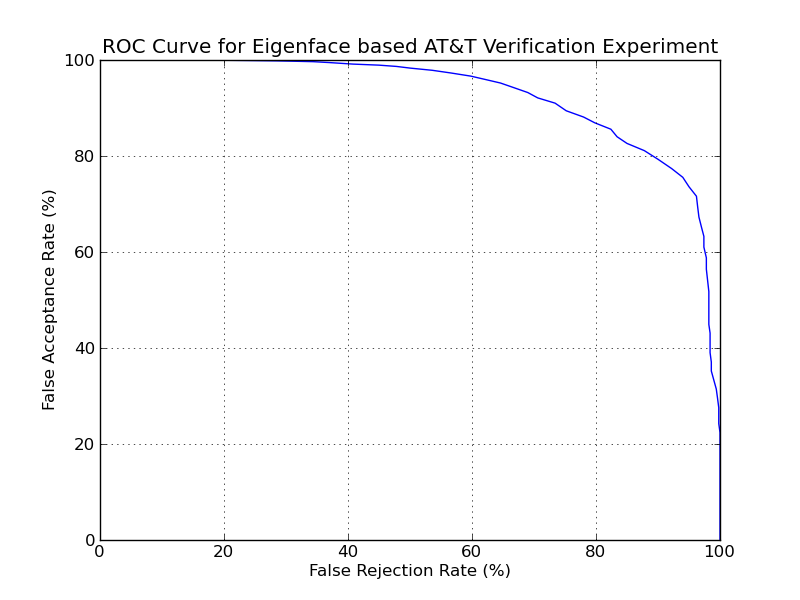
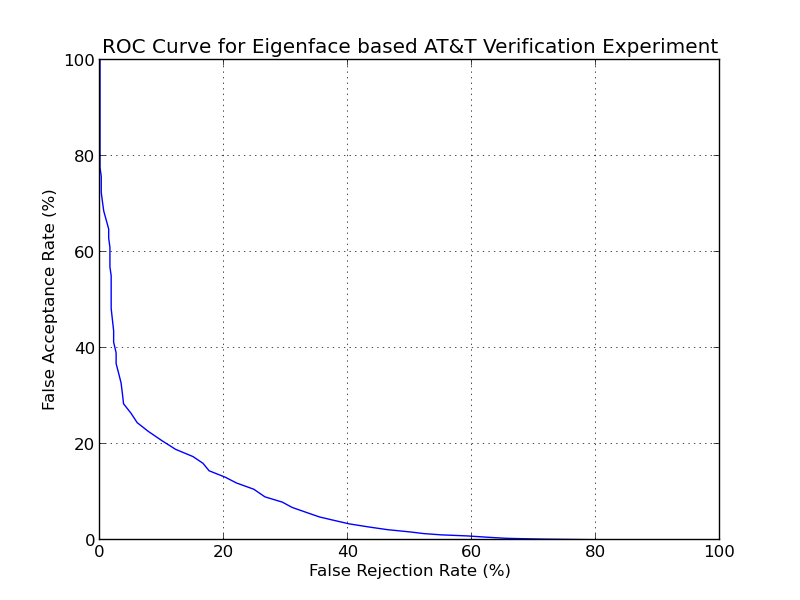
Fixed bug in eigenface example; updated Gabor graphs to use Canberra instead of PhaseDiff.

diff --git a/faceverify/gabor_graph.py b/faceverify/gabor_graph.py
@@ -21,7 +21,7 @@
 import bob
 import xbob.db.atnt
 import os, sys
-import numpy
+import numpy, math
 from matplotlib import pyplot
 
 # This is the base directory where by default the AT&T images are found. You can
@@ -32,6 +32,7 @@ ATNT_IMAGE_DIRECTORY = os.environ['ATNT_DATABASE_DIRECTORY'] if 'ATNT_DATABASE_D
 # The default file name extension of the AT&T images
 ATNT_IMAGE_EXTENSION = ".pgm"
 
+preprocessor = bob.ip.TanTriggs()
 
 def load_images(db, group = None, purpose = None):
   """Reads the images for the given group and the given purpose from the given database"""
@@ -42,11 +43,13 @@ def load_images(db, group = None, purpose = None):
   for k in files:
     # load image and linearize it into a vector
     images[k.id] = bob.io.load(k.make_path(ATNT_IMAGE_DIRECTORY, ATNT_IMAGE_EXTENSION)).astype(numpy.float64)
+    # preprocess the images
+    images[k.id] = preprocessor(images[k.id])
   return images
 
 
 # define Gabor wavelet transform class globally since it is reused for all images
-gabor_wavelet_transform = bob.ip.GaborWaveletTransform()
+gabor_wavelet_transform = bob.ip.GaborWaveletTransform(k_max = 0.25 * math.pi)
 # create empty Gabor jet image including Gabor phases in the required size
 jet_image = gabor_wavelet_transform.empty_jet_image(numpy.ndarray((112,92)), True)
 
@@ -96,7 +99,7 @@ def main():
 
   print "Creating Gabor graph machine"
   # create a machine that will produce tight Gabor graphs with inter-node distance (1,1)
-  graph_machine = bob.machine.GaborGraphMachine((0,0), (111,91), (1,1))
+  graph_machine = bob.machine.GaborGraphMachine((8,6), (104,86), (4,4))
 
   #####################################################################
   ### extract Gabor graph features for all model and probe images
@@ -121,7 +124,7 @@ def main():
 
   print "Computing scores"
   # define a certain Gabor jet similarity function that should be used
-  similarity_function = bob.machine.GaborJetSimilarity(bob.machine.gabor_jet_similarity_type.PHASE_DIFF)
+  similarity_function = bob.machine.GaborJetSimilarity(bob.machine.gabor_jet_similarity_type.CANBERRA)
 
   # iterate through models and probes and compute scores
   model_count = 1
@@ -159,8 +162,8 @@ def main():
   pyplot.axis([0, 100, 0, 100]) #xmin, xmax, ymin, ymax
 
   # save plot to file
-  pyplot.savefig("gabor_phase.png")
-  print "Saved figure 'gabor_phase.png'"
+  pyplot.savefig("gabor_graph.png")
+  print "Saved figure 'gabor_graph.png'"
 
   # show ROC curve.
   # enable it if you like. This will open a window and display the ROC curve

diff --git a/setup.py b/setup.py
@@ -28,7 +28,7 @@ setup(
     # This is the basic information about your project. Modify all this
     # information before releasing code publicly.
     name='bob.example.faceverify',
-    version='0.4.0',
+    version='0.4.1',
     description='Example for using Bob to create face verification systems',
     url='http://pypi.python.org/pypi/bob.example.faceverify',
     license='GPLv3',
@@ -61,7 +61,7 @@ setup(
     entry_points={
       'console_scripts': [
         'eigenface.py = faceverify.eigenface:main',
-        'gabor_phase.py = faceverify.gabor_phase:main',
+        'gabor_graph.py = faceverify.gabor_graph:main',
         'dct_ubm.py = faceverify.dct_ubm:main'
         ],
 

diff --git a/faceverify/eigenface.py b/faceverify/eigenface.py
@@ -135,8 +135,8 @@ def main():
   # iterate through models and probes and compute scores
   for model_key, model_feature in model_features.iteritems():
     for probe_key, probe_feature in probe_features.iteritems():
-      # compute score
-      score = distance_function(model_feature, probe_feature)
+      # compute score as the negative Euclidean distance
+      score = - distance_function(model_feature, probe_feature)
 
       # check if this is a positive score
       if atnt_db.get_client_id_from_file_id(model_key) == atnt_db.get_client_id_from_file_id(probe_key):

diff --git a/doc/examples.rst b/doc/examples.rst
@@ -19,12 +19,12 @@ There are three example scripts:
 .. code-block:: sh
 
   $ ./bin/eigenface.py
-  $ ./bin/gabor_phase.py
+  $ ./bin/gabor_graph.py
   $ ./bin/dct_ubm.py
 
 that perform more or less complicated face verification experiments.
 Each experiment creates an ROC curve that contains the final verification result of the test.
-The generated files will be ``eigenface.png``, ``gabor_phase.png``, and ``dct_ubm.png``.
+The generated files will be ``eigenface.png``, ``gabor_graph.png``, and ``dct_ubm.png``.
 
 Since the complexity of the algorithms increase, the expected execution time of them differ a lot.
 While the eigenface example should be finished in a couple of seconds, the Gabor phase example could take some minutes, and the UBM/GMM model needs in the order of half an hour to compute.
@@ -107,25 +107,25 @@ and the performance is computed:
   >>> threshold = bob.measure.eer_threshold(negatives, positives)
   >>> FAR, FRR = bob.measure.farfrr(negatives, positives, threshold)
 
-The expected result is: FAR 83.6% and FRR 83.6% at distance threshold 2048.9
+The expected result is: FAR 16.4% and FRR 16.4% at distance threshold -2048.9
 
 .. note::
 
   Computing eigenfaces with such a low amount of training data is usually not an excellent idea.
-  Hence, the performance in this example is extremely poor.
+  Hence, the performance in this example is relatively poor.
 
 
 Gabor jet comparisons
 ~~~~~~~~~~~~~~~~~~~~~
 A better face verification example uses Gabor jet features [WFKM97]_ .
-In this example we do not define a face graph, but instead we use the Gabor jets at all positions in the image.
+In this example we do not define a face graph, but instead we use the Gabor jets at several grid positions in the image.
 To do that, we define:
 
 .. code-block:: python
 
-  >>> graph_machine = bob.machine.GaborGraphMachine((0,0), (111,91), (1,1))
+  >>> graph_machine = bob.machine.GaborGraphMachine((8,6), (104,86), (4,4))
 
-that will create Gabor graphs with node positions from (0,0) to (111,91) with step size (1,1), i.e., a tight Gabor grid graph covering the whole image.
+that will create Gabor graphs with node positions from (8,6) to (104,86) with step size (4,4).
 
 .. note::
 
@@ -155,7 +155,7 @@ Now, the Gabor graph features can be extracted from the model and probe images:
 
 To compare the Gabor graphs, several methods can be applied.
 Here, we chose to compute the similarity of two graphs as the average of corresponding Gabor jet similarities.
-Again, many choices for the Gabor jet comparison exist, here we take the novel Gabor phase based similarity function [GHW12]_:
+Again, many choices for the Gabor jet comparison exist, here we take Canberra similarity function [GHW12]_:
 
 .. code-block:: python
 
@@ -164,13 +164,13 @@ Again, many choices for the Gabor jet comparison exist, here we take the novel G
   ...    score = graph_machine.similarity(model_feature, probe_feature, bob.machine.DisparityCorrectedPhaseDifference())
 
 The evaluation is identical to the evaluation in the eigenface example.
-Since this method is much better for suited for small image databases, the resulting verification rates are much better.
+Since this method is better for suited for small image databases, the resulting verification rates are better.
 The expected ROC curve is:
 
-.. image:: gabor_phase.png
+.. image:: gabor_graph.png
   :scale: 70 %
 
-while the expected verification result is: FAR 22% and FRR 22% at distance threshold 0.1799
+while the expected verification result is: FAR 13.1% and FRR 13.2% at distance threshold 0.6894
 
 
 The UBM/GMM modeling of DCT Blocks
